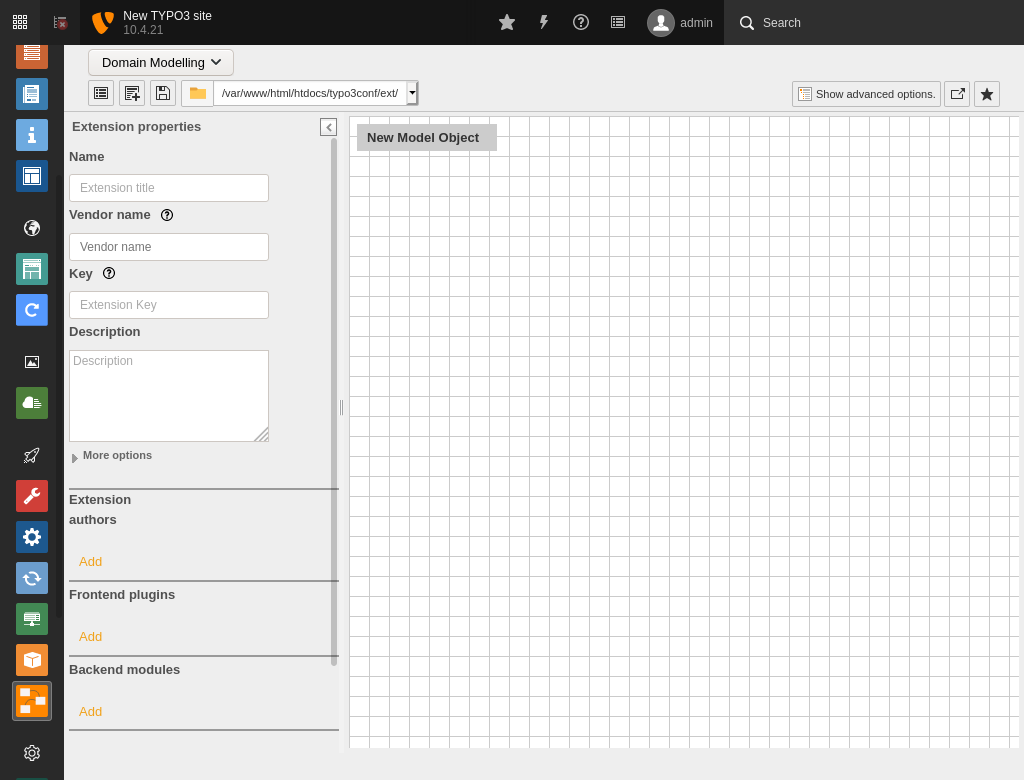
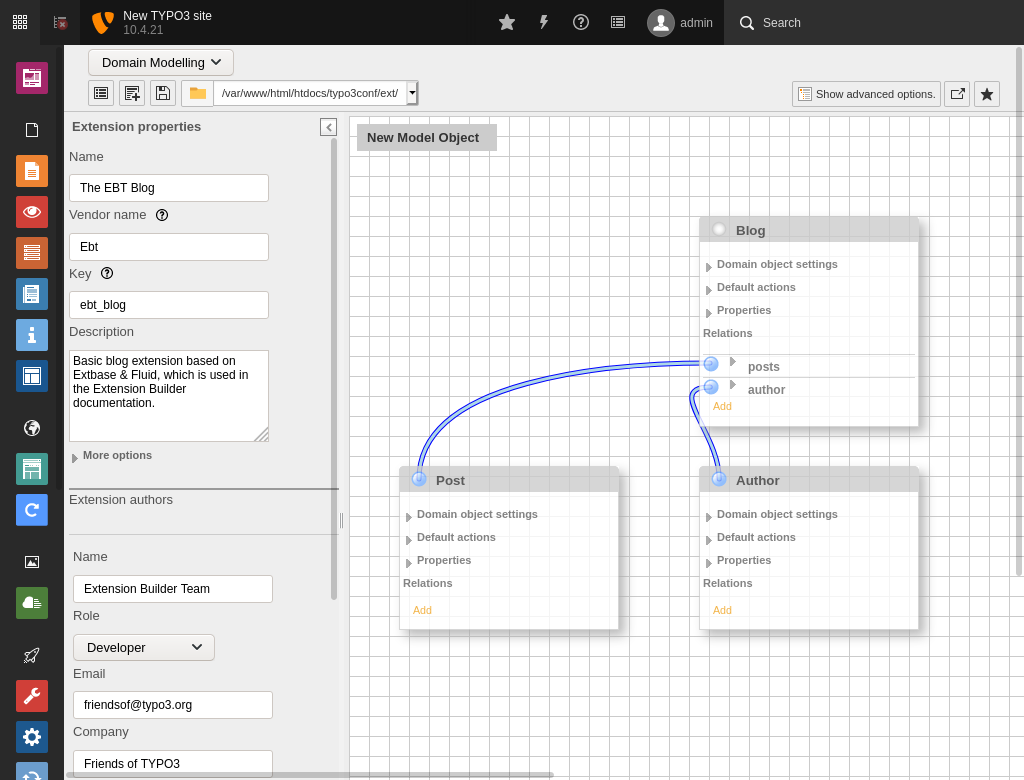
[DOCS] Small fixes derived from backport of documentation
- linked to https://docs.typo3.org/p/... instead of outdated https://docs.typo3.org/typo3cms/extensions/...
- compared the list of prefixes for extension names that are not allowed - in description and implementation
- update hint that the generated extension is symlinked by Composer instead of Extension Builder (both is true, but the first is expected)
- add hint of completing the installation in composer mode by installing the extension in the Extension Manager
- show the blog example in the introduction screenshot instead of an empty graphical editor
- list the documentation folder also in the generated extension files of the introduction chapter
- always link to the latest version of the extension publishing guide as the steps do not depend on the TYPO3 compatibility of the generated extension

diff --git a/Documentation/GraphicalEditor/Index.rst b/Documentation/GraphicalEditor/Index.rst
@@ -58,8 +58,8 @@ Feel encouraged to save frequently.
 +----------------------+----------------------------------------------------------------------------------------------------------+
 |**Key**               |The extension key must be a lowercase, underscored, alphanumeric string.                                  |
 |                      |It must be unique throughout the TER and is best composed of the vendor name and an extension specific    |
-|                      |name, such as ``<vendorname>_<extension_name>``, where it must not start with "tx\_", "u\_", "user\_",    |
-|                      |"pages\_", "sys\_", and "csh\_". It is used                                                               |
+|                      |name, such as ``<vendorname>_<extension_name>``, where it must not start with "tx\_", "pages\_", "sys\_", |
+|                      |"ts\_language\_", and "csh\_". It is used                                                                 |
 |                      |                                                                                                          |
 |                      |- as extension directory name :file:`<extension_key>/`,                                                   |
 |                      |- in the language files: ``product-name=<extension_key>`` and                                             |
@@ -387,8 +387,7 @@ If you run TYPO3 in :doc:`Composer mode <t3install:QuickInstall/Composer/Index>`
 you have to specify and configure a `local path repository <https://getcomposer.org/doc/05-repositories.md#path>`_
 before saving your extension. Extension Builder reads the path from the TYPO3
 project :file:`composer.json` and offers it as a target path to save the
-extension. Extension Builder creates a symlink :file:`typo3conf/ext/<extension_key>/`
-to your extension.
+extension.
 
 The local path repository is normally configured as follows:
 
@@ -403,7 +402,7 @@ The local path repository is normally configured as follows:
        }
    }
 
-To install the extension in the TYPO3 instance you have to execute the usual:
+To install the extension in the TYPO3 instance, you first need to run the usual:
 
 .. code-block:: bash
 
@@ -414,6 +413,11 @@ To install the extension in the TYPO3 instance you have to execute the usual:
 .. code-block:: bash
 
    composer require ebt/ebt-blog:@dev
+
+which will cause a symlink :file:`typo3conf/ext/<extension_key>/` to your extension
+to be created and the extension to be recognized in the Extension Manager.
+
+Now install the extension in the Extension Manager.
 
 6.b. Legacy mode
 ----------------

diff --git a/Documentation/GeneratedExtension/Index.rst b/Documentation/GeneratedExtension/Index.rst
@@ -193,7 +193,9 @@ If you publish the extension to the *TYPO3 Extension Repository* (TER), do not
 put the rendered documentation under version control, as the documentation will
 be registered during the :doc:`publishing process </PublishToTer/Index>` for
 automatic rendering and deployment to
-:samp:`https://docs.typo3.org/typo3cms/extensions/<extension_name>/`.
+:samp:`https://docs.typo3.org/p/<vendor-name>/<extension-name>/<version>/<language>/`
+, for example to
+:samp:`https://docs.typo3.org/p/friendsoftypo3/extension-builder/10.0/en-us/`.
 
 If the extension is for private use, you are free to do anything with the
 rendered documentation - including, of course, putting it under version control.

diff --git a/Documentation/PublishToTer/Index.rst b/Documentation/PublishToTer/Index.rst
@@ -33,4 +33,4 @@ and write appropriate documentation following
 * :ref:`documentation`
 
 before publishing the extension on TER and Packagist, following the official
-:doc:`publishing guide <t3coreapi:ExtensionArchitecture/PublishExtension/Index>`.
+:doc:`publishing guide <t3coreapi-latest:ExtensionArchitecture/PublishExtension/Index>`.

diff --git a/Documentation/Introduction/Index.rst b/Documentation/Introduction/Index.rst
@@ -47,6 +47,7 @@ and further developed:
        ├── ExtensionBuilder.json
        ├── Classes/..
        ├── Configuration/..
+       ├── Documentation/..
        ├── Resources/..
        └── Tests/..
 
